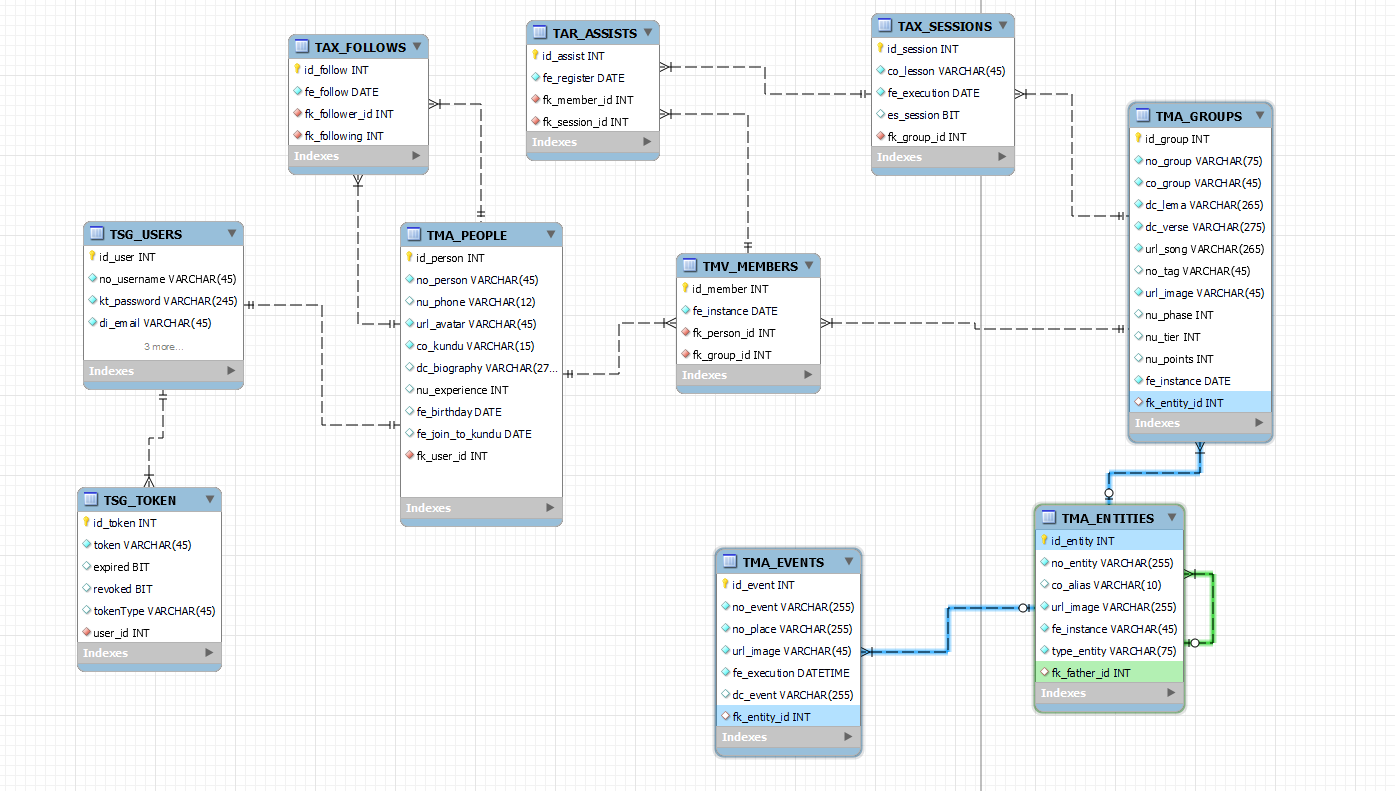
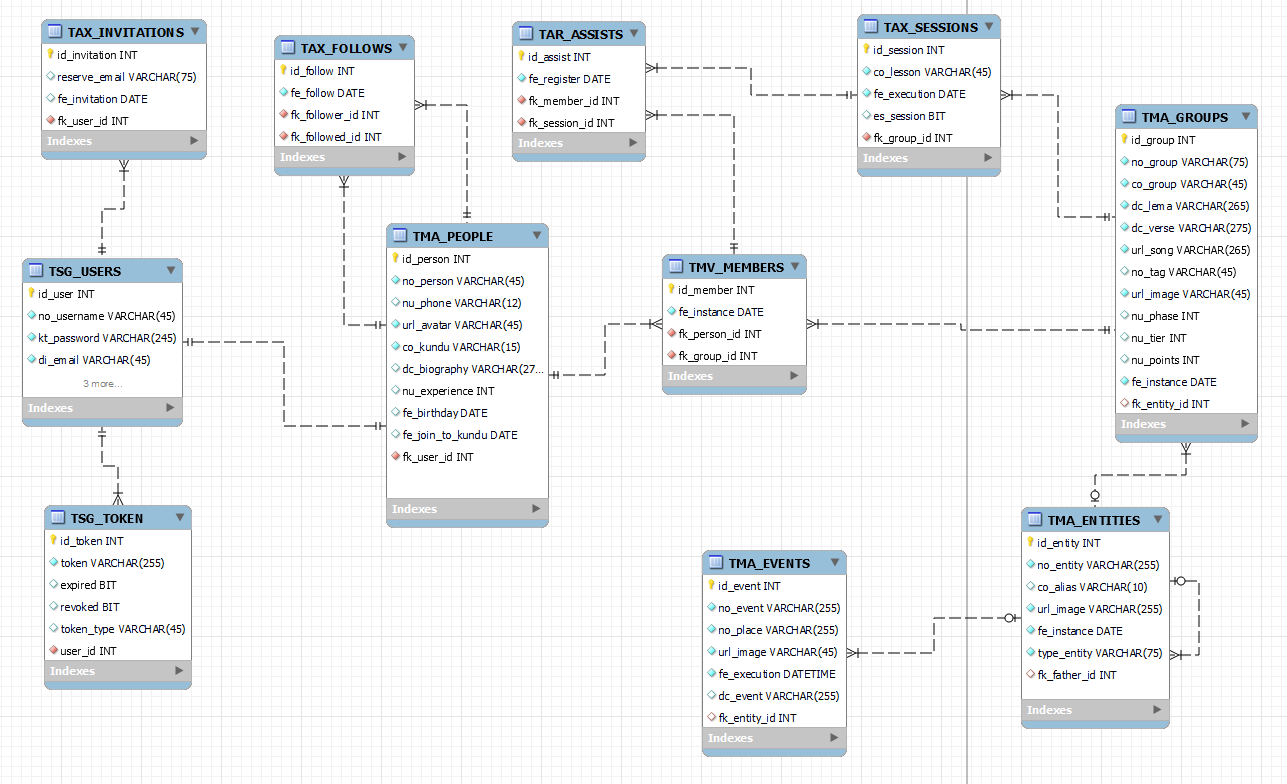
ref: user_reserved_exists

Changed region(s): [[0.0311, 0.0, 0.9946, 0.9796], [0.0, 0.2755, 0.1865, 0.551], [0.0311, 0.5816, 0.1865, 0.8878]]

diff --git a/src/main/java/com/citse/kunduApp/entity/Group.java b/src/main/java/com/citse/kunduApp/entity/Group.java
@@ -1,0 +1,56 @@
+package com.citse.kunduApp.entity;
+
+import com.fasterxml.jackson.annotation.JsonIgnoreProperties;
+import jakarta.persistence.*;
+import lombok.AllArgsConstructor;
+import lombok.Builder;
+import lombok.Data;
+import lombok.NoArgsConstructor;
+
+import java.io.Serializable;
+import java.time.LocalDate;
+import java.util.List;
+
+@Entity
+@Data
+@Builder
+@NoArgsConstructor
+@AllArgsConstructor
+@Table(name = "TMA_GROUPS")
+public class Group implements Serializable {
+
+    @Id
+    @GeneratedValue(strategy = GenerationType.IDENTITY)
+    @Column(name = "id_group",nullable = false)
+    private Integer id;
+    @Column(name = "no_group",nullable = false)
+    private String name;
+    @Column(name = "co_group",nullable = false, unique = true)
+    private String code;
+    @Column(name = "dc_lema",nullable = false)
+    private String lema;
+    @Column(name = "dc_verse",nullable = false)
+    private String verse;
+    @Column(name = "url_song",nullable = false)
+    private String song;
+    @Column(name = "no_tag")
+    private String tag;
+    @Column(name = "url_image",nullable = false)
+    private String image;
+    @Column(name = "nu_phase")
+    private int phase;
+    @Column(name = "nu_tier")
+    private int level;
+    @Column(name = "nu_points")
+    private int points;
+    @Column(name = "fe_instance", nullable = false)
+    private LocalDate creation;
+
+    @JsonIgnoreProperties({"groups","events"})
+    @ManyToOne
+    @JoinColumn(name = "fk_entity_id")
+    private Entities gEntity;
+
+    @OneToMany(mappedBy = "group")
+    private List<Member> members;
+}

diff --git a/src/main/java/com/citse/kunduApp/entity/Entities.java b/src/main/java/com/citse/kunduApp/entity/Entities.java
@@ -1,0 +1,51 @@
+package com.citse.kunduApp.entity;
+
+import com.citse.kunduApp.utils.models.TypeEntity;
+import com.fasterxml.jackson.annotation.JsonIgnore;
+import com.fasterxml.jackson.annotation.JsonIgnoreProperties;
+import jakarta.persistence.*;
+import lombok.AllArgsConstructor;
+import lombok.Builder;
+import lombok.Data;
+import lombok.NoArgsConstructor;
+
+import java.io.Serializable;
+import java.time.LocalDate;
+import java.util.List;
+
+@Data
+@Entity
+@Builder
+@NoArgsConstructor
+@AllArgsConstructor
+@Table(name = "TMA_ENTITIES")
+public class Entities implements Serializable {
+
+    @Id
+    @GeneratedValue(strategy = GenerationType.IDENTITY)
+    @Column(name = "id_entity",nullable = false)
+    private Integer id;
+    @Column(name = "no_entity",nullable = false)
+    private String name;
+    @Column(name = "co_alias")
+    private String alias;
+    @Column(name = "url_image",nullable = false)
+    private String logo;
+    @Column(name = "fe_instance",nullable = false)
+    private LocalDate creation;
+
+    @Enumerated(EnumType.STRING)
+    private TypeEntity typeEntity;
+
+    @ManyToOne
+    @JoinColumn(name = "fk_father_id",referencedColumnName = "id_entity")
+    private Entities father;
+
+    @JsonIgnoreProperties({"entity"})
+    @OneToMany(mappedBy = "entity")
+    private List<Event> events;
+
+    @JsonIgnore
+    @OneToMany(mappedBy = "gEntity")
+    private List<Group> groups;
+}

diff --git a/src/main/java/com/citse/kunduApp/entity/Event.java b/src/main/java/com/citse/kunduApp/entity/Event.java
@@ -1,0 +1,41 @@
+package com.citse.kunduApp.entity;
+
+import com.fasterxml.jackson.annotation.JsonIgnoreProperties;
+import jakarta.persistence.*;
+import lombok.AllArgsConstructor;
+import lombok.Builder;
+import lombok.Data;
+import lombok.NoArgsConstructor;
+
+import java.io.Serializable;
+import java.time.LocalDate;
+import java.time.LocalDateTime;
+
+@Entity
+@Data
+@Builder
+@NoArgsConstructor
+@AllArgsConstructor
+@Table(name = "TMA_EVENTS")
+public class Event implements Serializable {
+
+    @Id
+    @GeneratedValue(strategy = GenerationType.IDENTITY)
+    @Column(name = "id_event")
+    private Integer id;
+    @Column(name = "no_event")
+    private String name;
+    @Column(name = "dc_event")
+    private String description;
+    @Column(name = "no_place")
+    private String place;
+    @Column(name = "url_image")
+    private String image;
+    @Column(name = "fe_execution")
+    private LocalDateTime date;
+
+    @JsonIgnoreProperties({"events","groups","father"})
+    @ManyToOne
+    @JoinColumn(name = "fk_entity_id")
+    private Entities entity;
+}

diff --git a/src/main/java/com/citse/kunduApp/entity/Member.java b/src/main/java/com/citse/kunduApp/entity/Member.java
@@ -1,0 +1,37 @@
+package com.citse.kunduApp.entity;
+
+import com.fasterxml.jackson.annotation.JsonIgnoreProperties;
+import jakarta.persistence.*;
+import lombok.AllArgsConstructor;
+import lombok.Builder;
+import lombok.Data;
+import lombok.NoArgsConstructor;
+
+import java.io.Serializable;
+import java.time.LocalDate;
+
+@Entity
+@Data
+@Builder
+@NoArgsConstructor
+@AllArgsConstructor
+@Table(name = "TMV_MEMBERS")
+public class Member implements Serializable {
+
+    @Id
+    @GeneratedValue(strategy = GenerationType.IDENTITY)
+    @Column(name = "id_member")
+    private Integer id;
+    @Column(name = "fe_instance")
+    private LocalDate dateJoin;
+
+    @JsonIgnoreProperties({"user","member","following","followers"})
+    @OneToOne
+    @JoinColumn(name = "fk_person_id")
+    private Person person;
+
+    @JsonIgnoreProperties({"members","gEntity"})
+    @ManyToOne
+    @JoinColumn(name = "fk_group_id")
+    private Group group;
+}

diff --git a/src/main/java/com/citse/kunduApp/entity/Person.java b/src/main/java/com/citse/kunduApp/entity/Person.java
@@ -10,6 +10,7 @@ import lombok.NoArgsConstructor;
 
 import java.io.Serializable;
 import java.time.LocalDate;
+import java.util.List;
 
 @Entity
 @Data
@@ -39,8 +40,22 @@ public class Person implements Serializable {
     @Column(name = "fe_join_to_kundu")
     private LocalDate joinDate;
 
-    @JsonIgnore
+    @JsonIgnoreProperties({"person","invitations","secure","email","password","enabled",
+            "credentialsNonExpired","accountNonExpired","authorities","accountNonLocked"})
     @OneToOne
     @JoinColumn(name = "fk_user_id")
     private User user;
+
+    @JsonIgnore
+    @OneToMany(mappedBy = "follower")
+    private List<Follow> followers;
+
+    @JsonIgnore
+    @OneToMany(mappedBy = "followed")
+    private List<Follow> following;
+
+    @JsonIgnoreProperties({"person"})
+    @OneToOne(mappedBy = "person", cascade = CascadeType.MERGE, fetch = FetchType.LAZY)
+    private Member member;
+
 }

diff --git a/src/main/java/com/citse/kunduApp/entity/Follow.java b/src/main/java/com/citse/kunduApp/entity/Follow.java
@@ -1,0 +1,33 @@
+package com.citse.kunduApp.entity;
+
+import jakarta.persistence.*;
+import lombok.AllArgsConstructor;
+import lombok.Builder;
+import lombok.Data;
+import lombok.NoArgsConstructor;
+
+import java.io.Serializable;
+import java.time.LocalDate;
+
+@Entity
+@Data
+@Builder
+@NoArgsConstructor
+@AllArgsConstructor
+@Table(name = "TAX_FOLLOWS")
+public class Follow implements Serializable {
+    @Id
+    @GeneratedValue(strategy = GenerationType.IDENTITY)
+    @Column(name = "id_follow")
+    private Integer id;
+    @Column(name = "fe_follow", nullable = false)
+    private LocalDate date;
+
+    @ManyToOne
+    @JoinColumn(name = "fk_follower_id")
+    private Person follower;
+
+    @ManyToOne
+    @JoinColumn(name = "fk_followed_id")
+    private Person followed;
+}

diff --git a/src/main/java/com/citse/kunduApp/controller/PersonController.java b/src/main/java/com/citse/kunduApp/controller/PersonController.java
@@ -26,9 +26,12 @@ public class PersonController {
 
     @GetMapping
     public ResponseEntity<?> getAll(@RequestParam(name = "id",required = false)Integer id,
+                                    @RequestParam(name = "code",required = false)String code,
                                     HttpServletRequest request){
         if(null!=id)
             return ResponseEntity.ok(kus.getResponse(request,origin,service.getById(id), HttpStatus.OK));
+        if(null!=code)
+            return ResponseEntity.ok(kus.getResponse(request,origin,service.findByKunduCode(code), HttpStatus.OK));
         return ResponseEntity.ok(kus.getResponse(request,origin,service.getAll(),HttpStatus.OK));
     }
 }

diff --git a/src/main/java/com/citse/kunduApp/security/auth/AuthenticationService.java b/src/main/java/com/citse/kunduApp/security/auth/AuthenticationService.java
@@ -140,6 +140,9 @@ public class AuthenticationService {
     }
 
     public InvitationResponse verifyAccountInvitation(String email){
+        var user = userRepo.findByEmail(email);
+        if(user.isPresent())
+            return InvitationResponse.builder().message("Already exists as user").isSuccess(false).build();
         var invitation_reserved = invitationRepository.findByEmail(email);
         if(invitation_reserved.isPresent())
             return InvitationResponse.builder().message("Go ahead").isSuccess(true).build();

diff --git a/src/main/java/com/citse/kunduApp/utils/models/TypeEntity.java b/src/main/java/com/citse/kunduApp/utils/models/TypeEntity.java
@@ -1,0 +1,9 @@
+package com.citse.kunduApp.utils.models;
+
+public enum TypeEntity {
+    ORGANIZATION,
+    AFFILIATE,
+    FACULTY,
+    PROFESSIONAL_SCHOOL,
+    CLUB
+}
